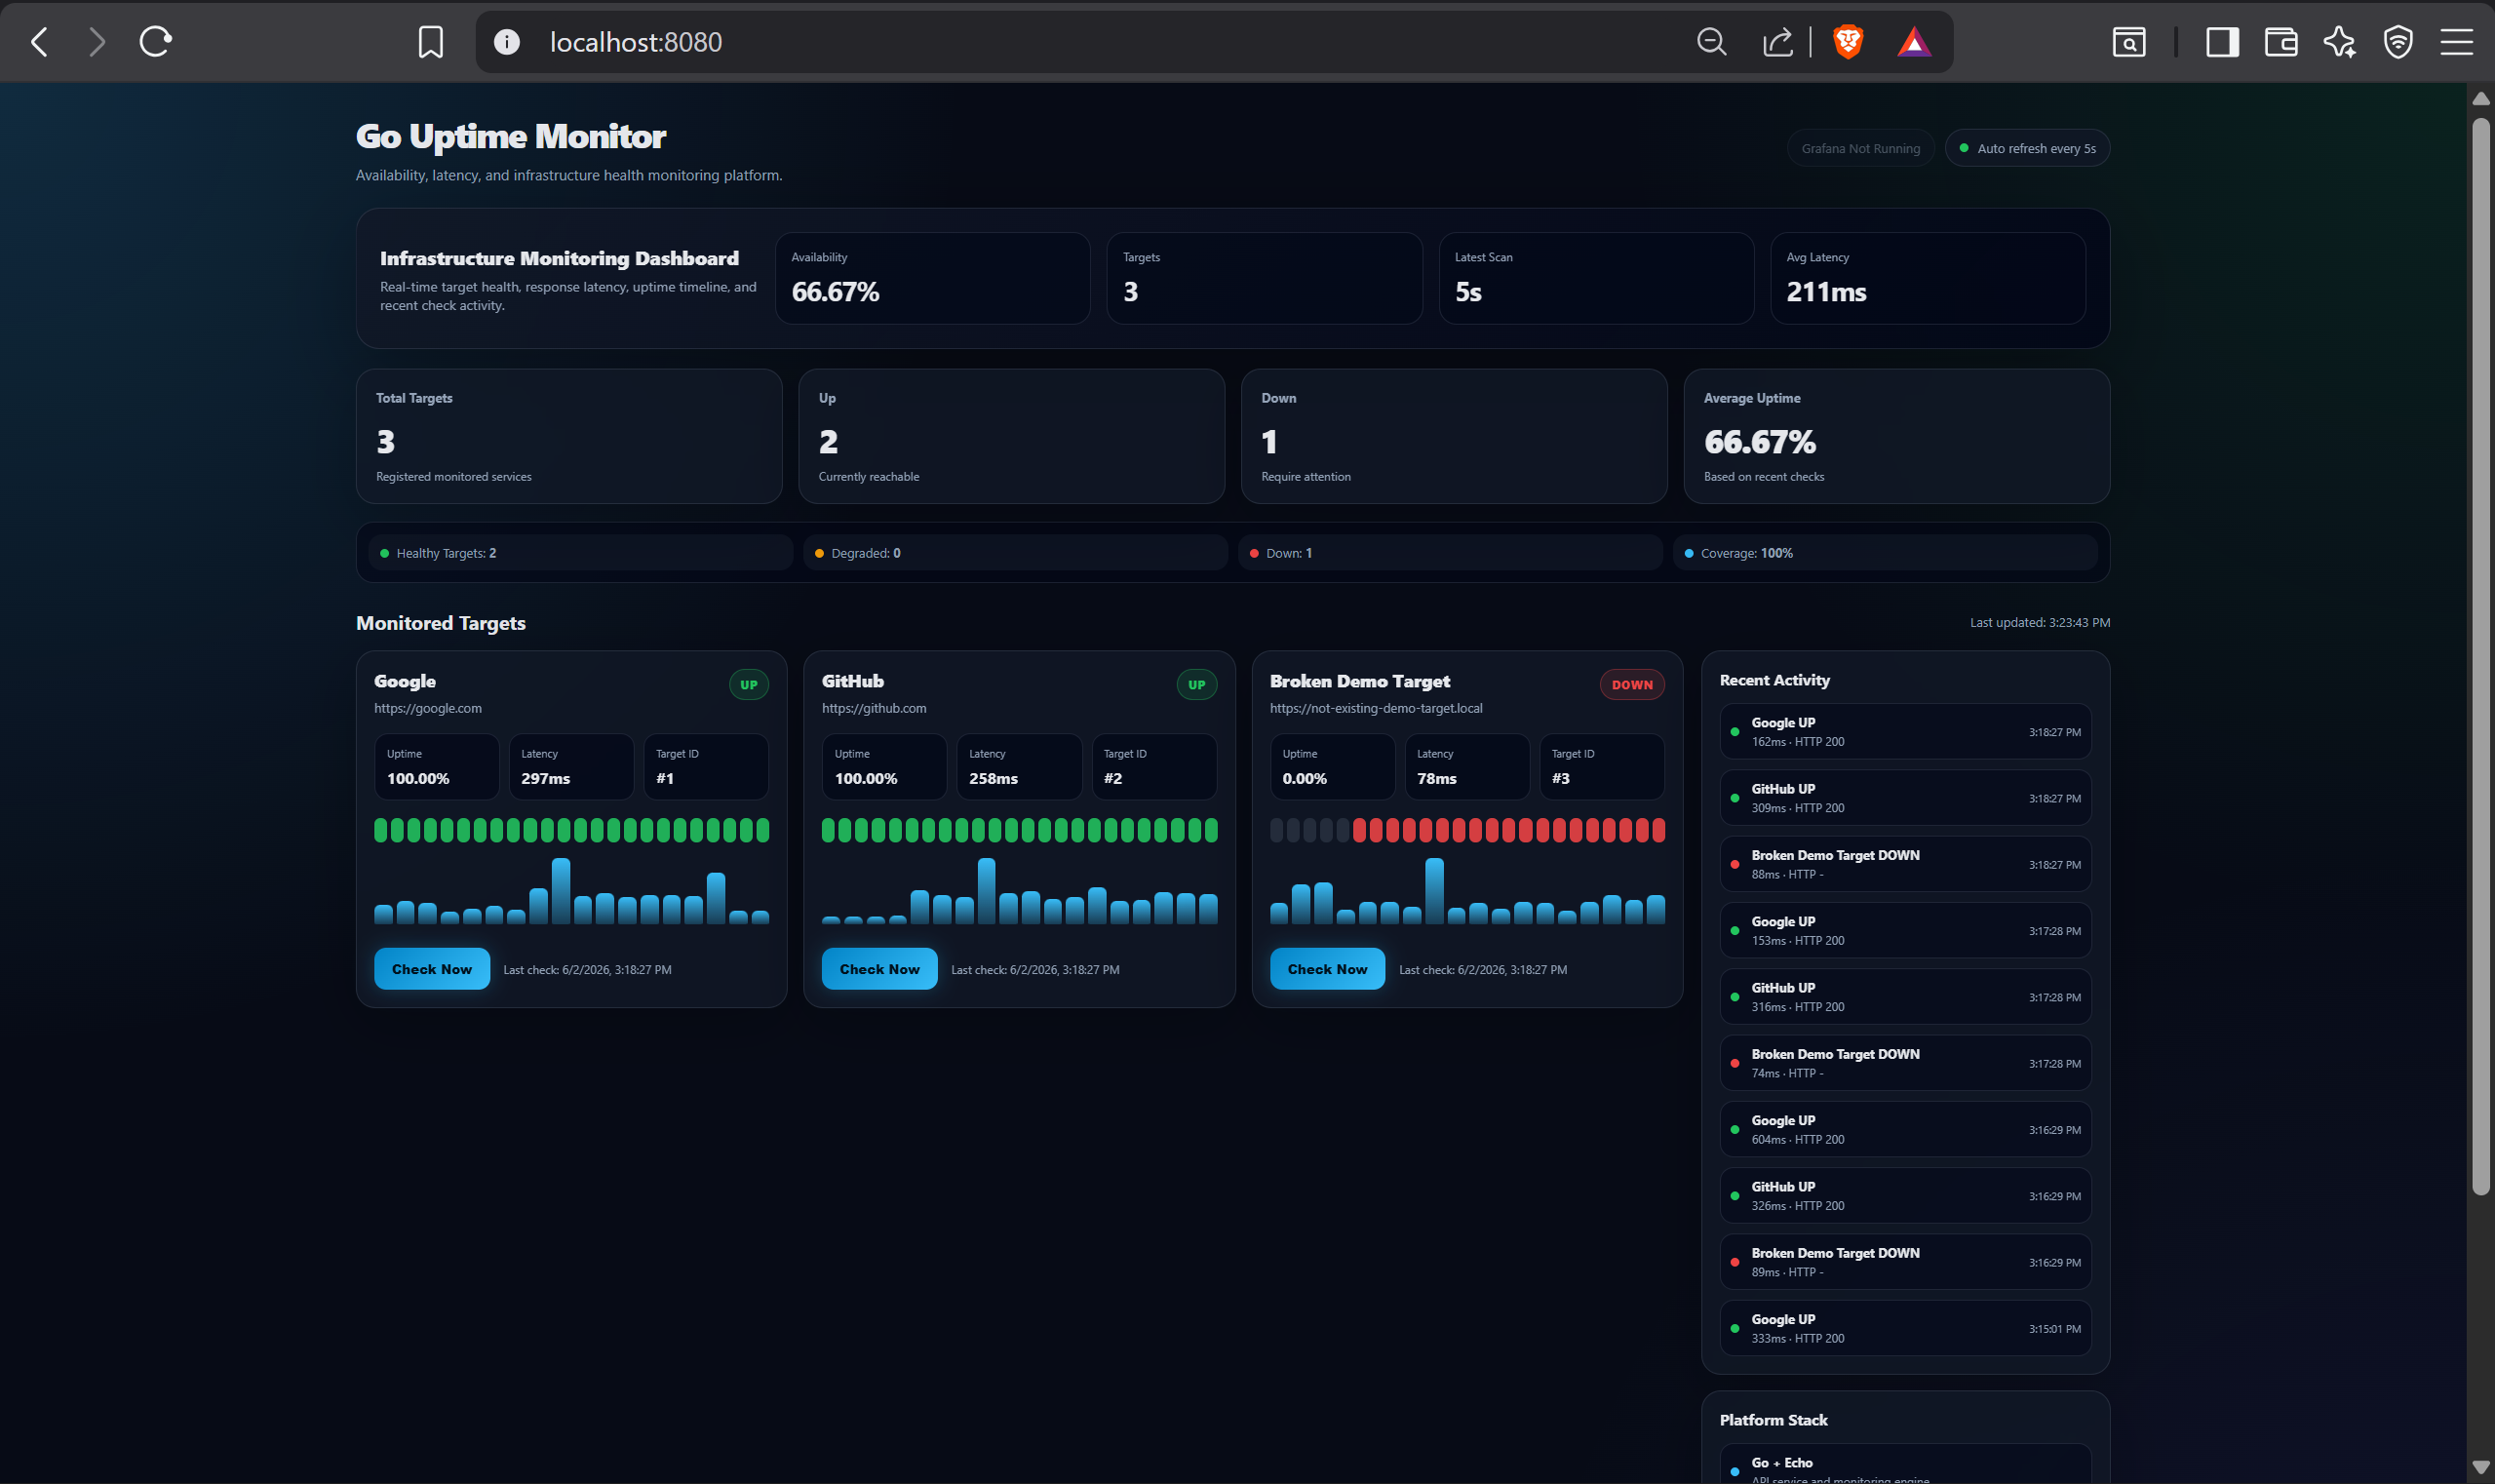
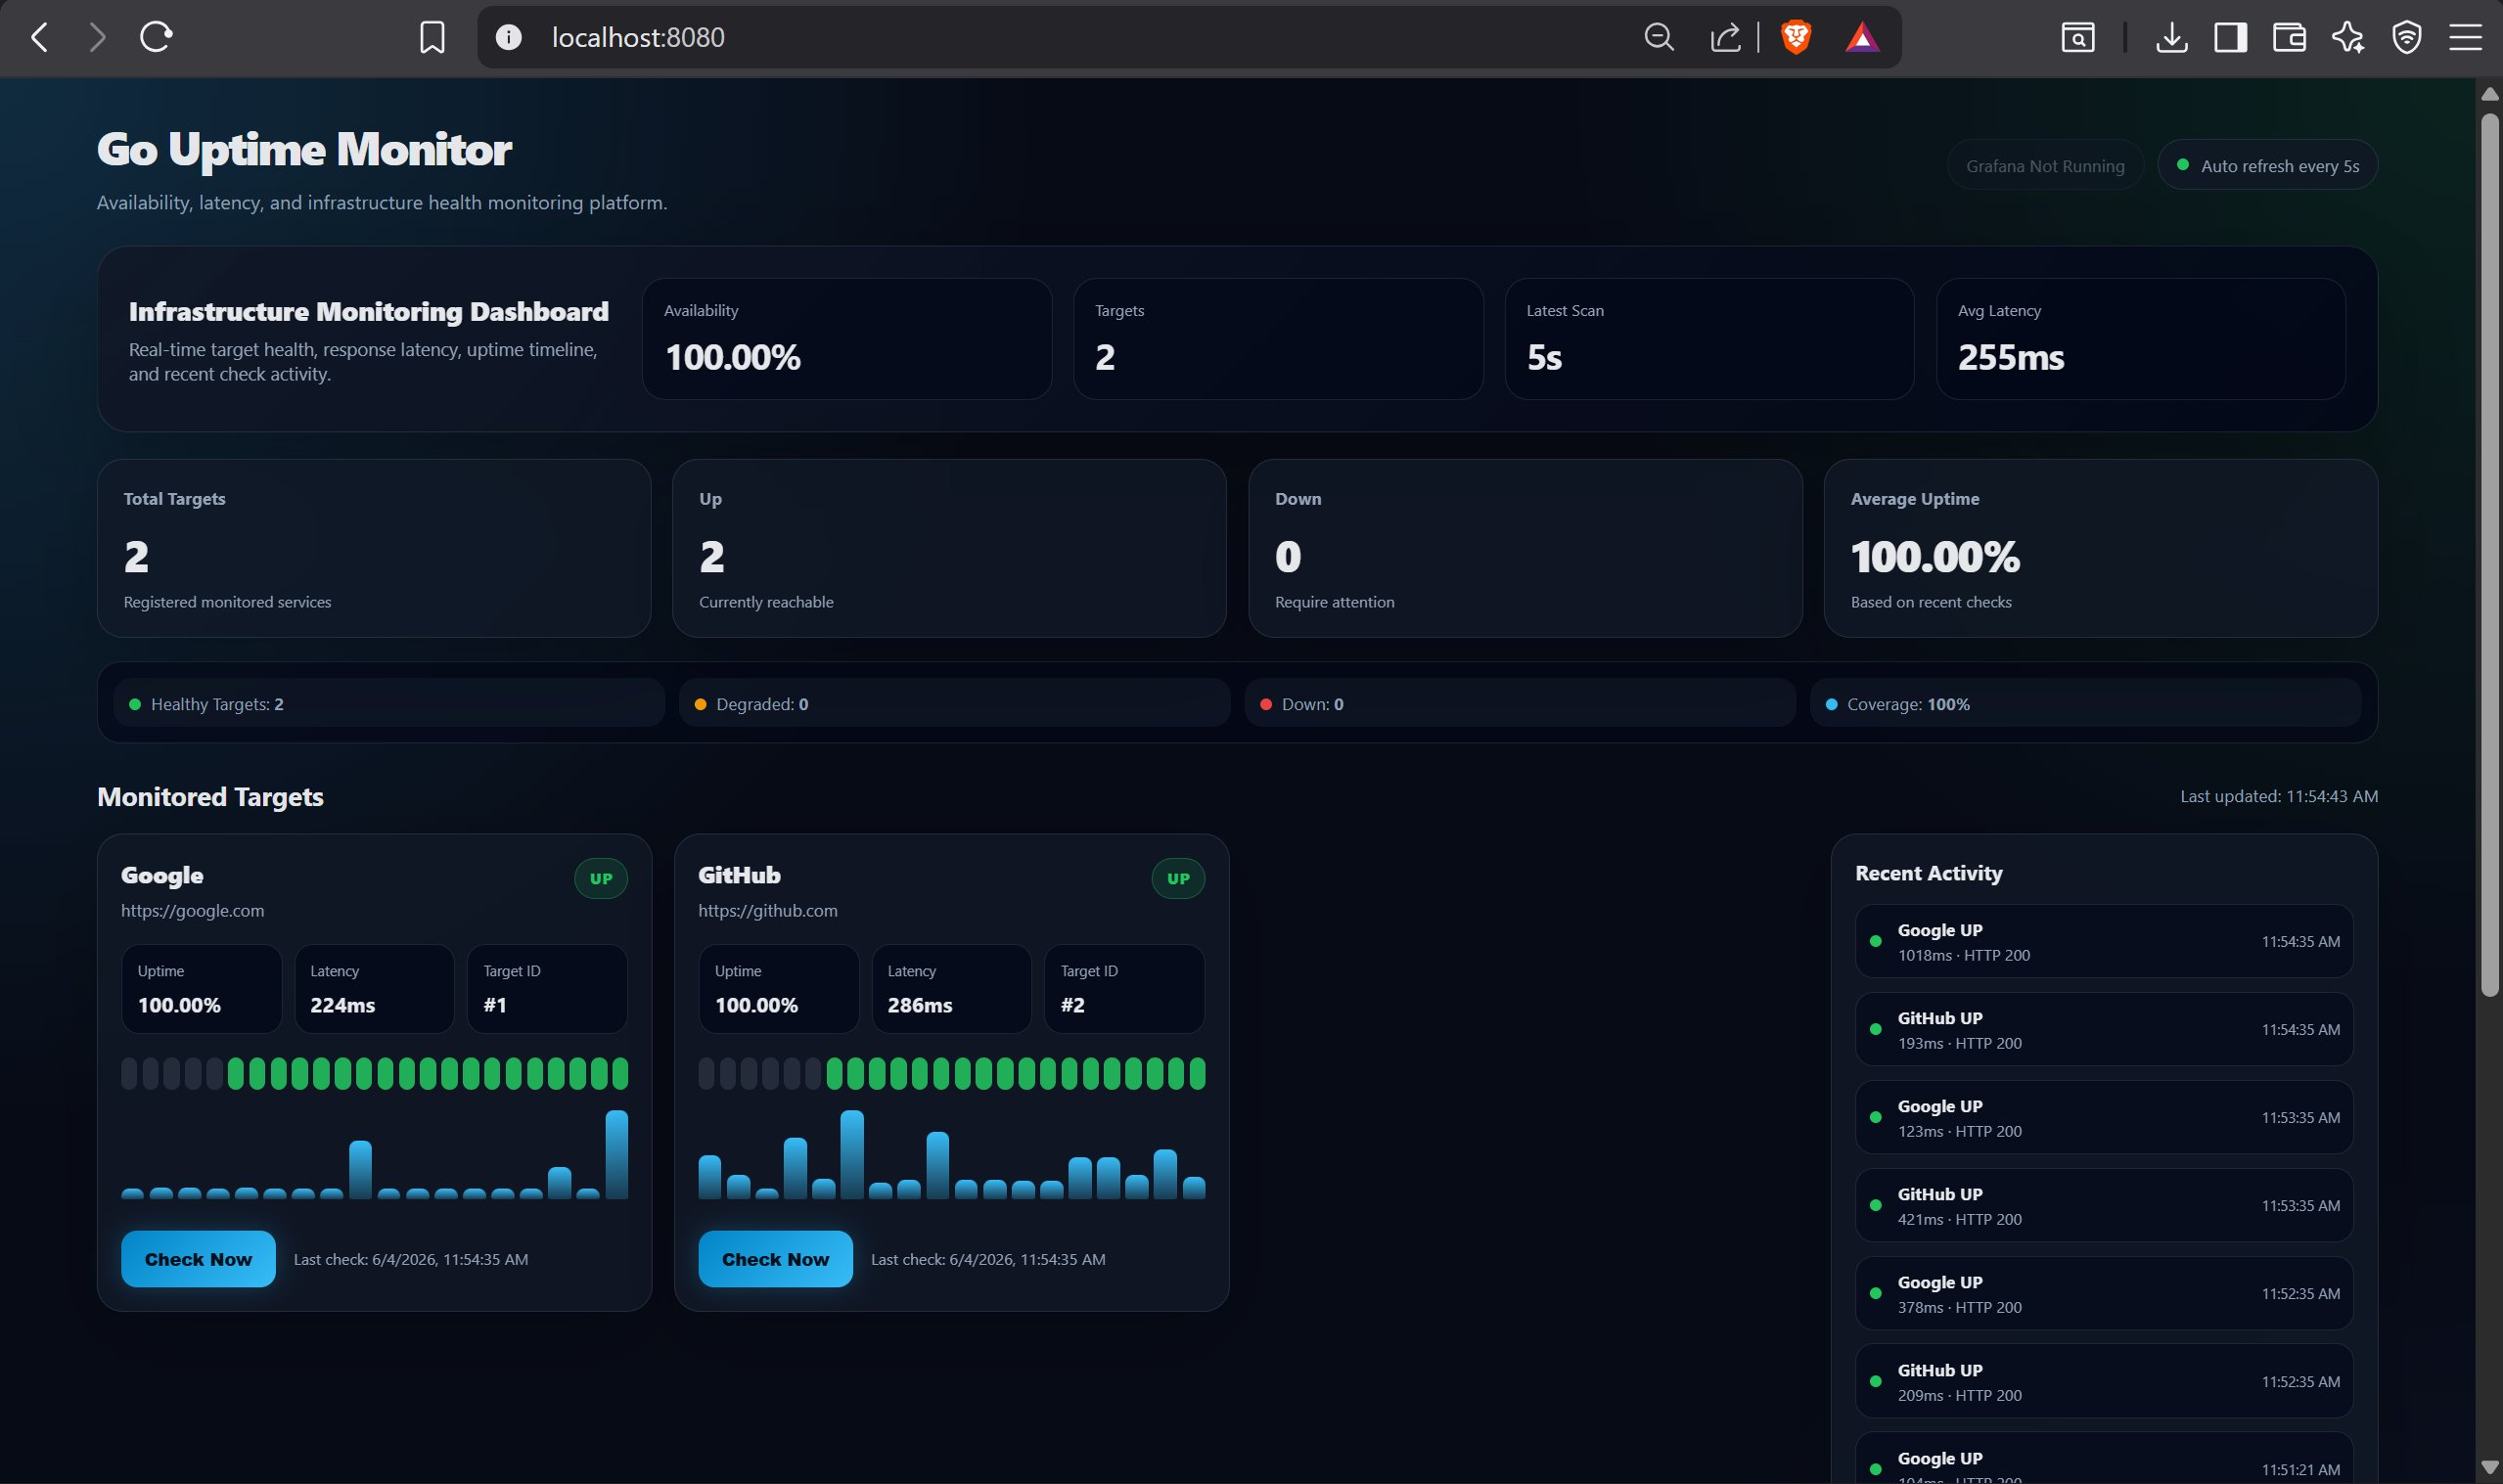
docs: update README with validation, cooldown, and new dashboard screenshot

diff --git a/README.md b/README.md
@@ -21,6 +21,7 @@
 - Exposes a REST API for managing targets and querying history
 - Exports a `/metrics` endpoint for Prometheus scraping
 - Sends webhook alerts (Slack / Discord) when a target goes down — with a **5-minute cooldown** to prevent alert spam
+- Validates all input — rejects empty names, empty URLs, and non-http/https schemes with a clear error response
 
 ---
 
@@ -83,6 +84,20 @@ curl -X POST http://localhost:8080/api/v1/targets \
 
 ---
 
+## Input Validation
+
+The API enforces the following rules on `POST /api/v1/targets`:
+
+| Rule | Error response |
+|------|---------------|
+| `name` is empty | `{"error": "name is required"}` |
+| `url` is empty | `{"error": "url is required"}` |
+| `url` is not `http` or `https` | `{"error": "url must be a valid http or https URL"}` |
+
+All validation errors return HTTP `400 Bad Request`.
+
+---
+
 ## Configuration
 
 All options are set via environment variables (or `.env` file):
@@ -106,11 +121,11 @@ go-uptime-monitor/
 │       └── main.go             # Entry point
 ├── internal/
 │   ├── config/                 # Env-based configuration
-│   ├── handler/                # HTTP handlers (Echo)
+│   ├── handler/                # HTTP handlers (Echo) + input validation
 │   ├── checker/                # URL check logic + scheduler
 │   ├── repository/             # SQLite data access layer
 │   ├── model/                  # Domain types (Target, CheckResult, UptimeSummary)
-│   ├── alert/                  # Webhook alert sender (with cooldown)
+│   ├── alert/                  # Webhook alert sender (5-min cooldown)
 │   └── metrics/                # Prometheus metrics registration
 ├── web/
 │   └── index.html              # Built-in dashboard
@@ -155,5 +170,5 @@ This service is designed to be deployed via [ansible-server-bootstrap](https://g
 ---
 
 <p align="center">
-  <i>Deployed via <a href="https://github.com/egayurcel990/ansible-server-bootstrap">ansible-server-bootstrap</a> · Universitas Brawijaya · 2025</i>
+  <i>Deployed via <a href="https://github.com/egayurcel990/ansible-server-bootstrap">ansible-server-bootstrap</a> · Ega Yurcel Satriaji · 2025</i>
 </p>